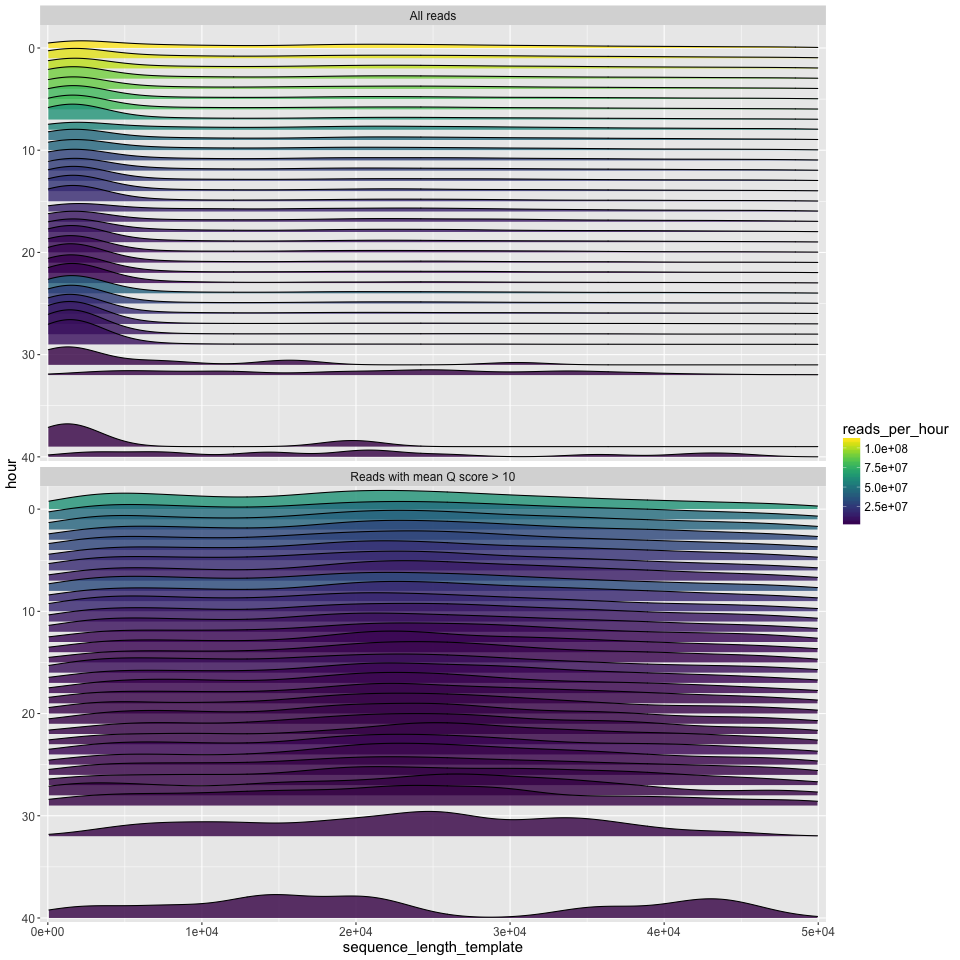
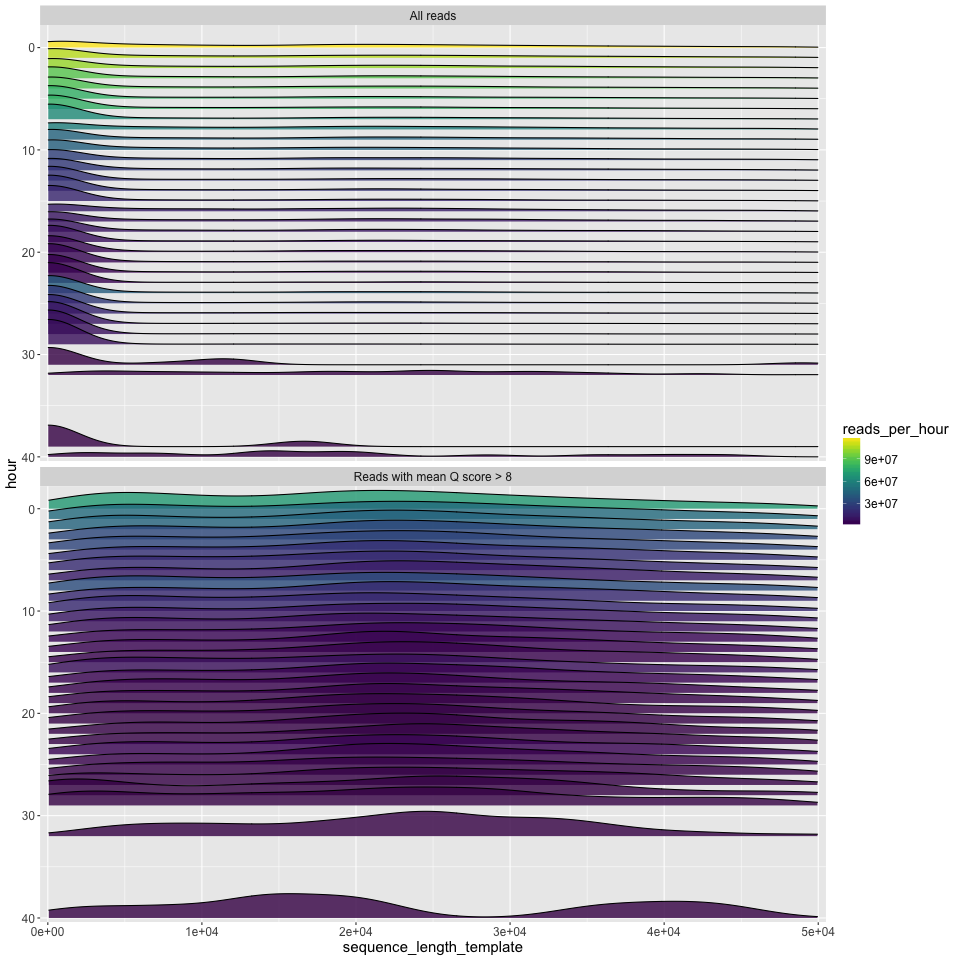
update readme

diff --git a/README.md b/README.md
@@ -11,12 +11,13 @@ Because other tools focus on getting data out of the fastq or fast5 files, which
 ## Quick start
 
 ```
-Rscript minion_QC.R sequencing_summary.txt output_directory
+Rscript minion_QC.R sequencing_summary.txt output_directory q_score_cutoff
 ```
 
 * *minion_QC.R*: path to this script
 * *sequencing_summary.txt*: path to a sequencing_summary.txt file from Albacore
 * *output_directory*: path to an output directory. Files will be overwritten.
+* *q_score_cutoff*: a q_score cutoff value for reads that you might throw out. Albacore 2.0 defaults to 7 for this. On our data a value of 8 looks a little more sensible.
 
 ## Dependencies
 A recent version of R, and install the following:
@@ -28,6 +29,8 @@ install.packages("reshape2")
 install.packages("plyr")
 install.packages("ggjoy")
 install.packages("purrr")
+install.packages("scales")
+install.packages("data.table")
 ```
 
 ## Output details
@@ -38,35 +41,35 @@ More details on rationale are in [this blog post](robertlanfear.com/blog/files/n
 Simple text summary of the data in yaml format (opens in any text editor, but can also be read by any coding language). Ultralong reads are defined as the maximum possible fraction of the data that has an N50>100KB, following the definition given in [this preprint](biorxiv.org/content/early/2017/04/20/128835). Here's the first part of the example file:
 
 ```yaml
-input file: /Users/roblanfear/Desktop/sequencing_summary.txt
+input file: ~/Desktop/sequencing_summary.txt
 All reads:
-  total.gigabases: 3.8433736
-  N50.length: 34354.0
-  mean.length: 16150.1
-  median.length: 7176.0
-  max.length: 826249.0
-  mean.q: 9.5
-  median.q: 10.1
+  total.gigabases: 3.527993
+  N50.length: 34625.0
+  mean.length: 14797.3
+  median.length: 5852.0
+  max.length: 208407.0
+  mean.q: 7.9
+  median.q: 9.0
   reads:
-    '>20kb': 83614
-    '>50kb': 14651
-    '>100kb': 253
-    '>200kb': 10
-    '>500kb': 1
+    '>20kb': 80309
+    '>50kb': 13325
+    '>100kb': 181
+    '>200kb': 1
+    '>500kb': 0
     '>1m': 0
-    ultralong: 574
+    ultralong: 390
   gigabases:
-    '>20kb': 3.113988
-    '>50kb': 0.9333141
-    '>100kb': 0.0303313
-    '>200kb': 0.0030453
-    '>500kb': 0.0008262
+    '>20kb': 2.949691
+    '>50kb': 0.8406423
+    '>100kb': 0.0199968
+    '>200kb': 0.0002084
+    '>500kb': 0.0e+00
     '>1m': 0.0e+00
-    ultralong: 0.0606444
+    ultralong: 0.0399325
 ```
 
 ### length_histogram.png
-Read length, on a log10 scale, on the X axis, and counts on the Y axis.
+Read length, on a log10 scale, on the X axis, and read counts on the Y axis.
 ![length_histogram](example_output/length_histogram.png)
 
 ### q_histogram.png
@@ -78,14 +81,14 @@ Events per base (i.e. numbe of events for each read, divided by the number of ba
 ![epb_histogram](example_output/epb_histogram.png)
 
 ### length_vs_q.png
-Read length (log10 scale) on the X axis, mean Q score on the Y axis. Points are coloured by the events per base, scaled such that all events per base >10 are recorded as a 10. The latter makes it easier to distinguish 'good' reads (~1.5 events per base) from 'bad' reads (>>1.5 events per base).
+Read length (log10 scale) on the X axis, mean Q score on the Y axis. Points are coloured by the events per base. 'Good' reads are ~1.5 events per base, and 'bad' reads are >>1.5 events per base. We often see a group of very short 'bad' reads.
 ![length_vs_q](example_output/length_vs_q.png)
 
 ### length_per_hour.png
 The read length density distribution (x axis) plotted for each hour of the run (y axis). Time runs from hour zero at the top, to the final hour of the run at the bottom. Since density plots do not intrinsically tell you anything about the number of reads, the number of reads is given by the fill colour. This can show some interesting patterns e.g.: that most of the good data in the run below came in the first ~10 hours; that the new mux at 8 hours led to a decent increase in the number of good reads; and that most of the longest good reads (>40kbp) also came in the first few hours.  
 ![length_per_hour](example_output/length_per_hour.png)
 
-### length_per_hour.png
+### q_per_hour.png
 The q score density distribution (x axis) plotted for each hour of the run (y axis). Time runs from hour zero at the top, to the final hour of the run at the bottom. Since density plots do not intrinsically tell you anything about the number of reads, the number of reads is given by the fill colour.   
 ![q_per_hour](example_output/q_per_hour.png)
 
@@ -100,3 +103,7 @@ Histograms of total bases, total reads, mean read length, and median read length
 ### flowcell_channels_epb.png
 This one's busy, but hopefully useful. The 512 channels are laid out as on the R9.5 flowcell. Then each sub-panel of the plot simply plots out the time of the run in hours on the X axis, and the events per base (log scale, cut off at 10 events per base) on the Y axis. The colour is the mean Q score of each read - blue is low, green is high. This gives a little insight into exactly what was going on in each of your channels over the course of the run. Blow it up big! What you want is lots of green (high quality) reads, being consistently produced in each channel, and with a consistently low events-per-base score (Y axis, indicating that the reads are not stalling in the pores).
 ![flowcell_channels_epb](example_output/flowcell_channels_epb.png)
+
+### flowcell_channels_readlength.png
+As above, but now the read length is on the Y axis
+![flowcell_channels_readlength](example_output/flowcell_channels_readlength.png)
